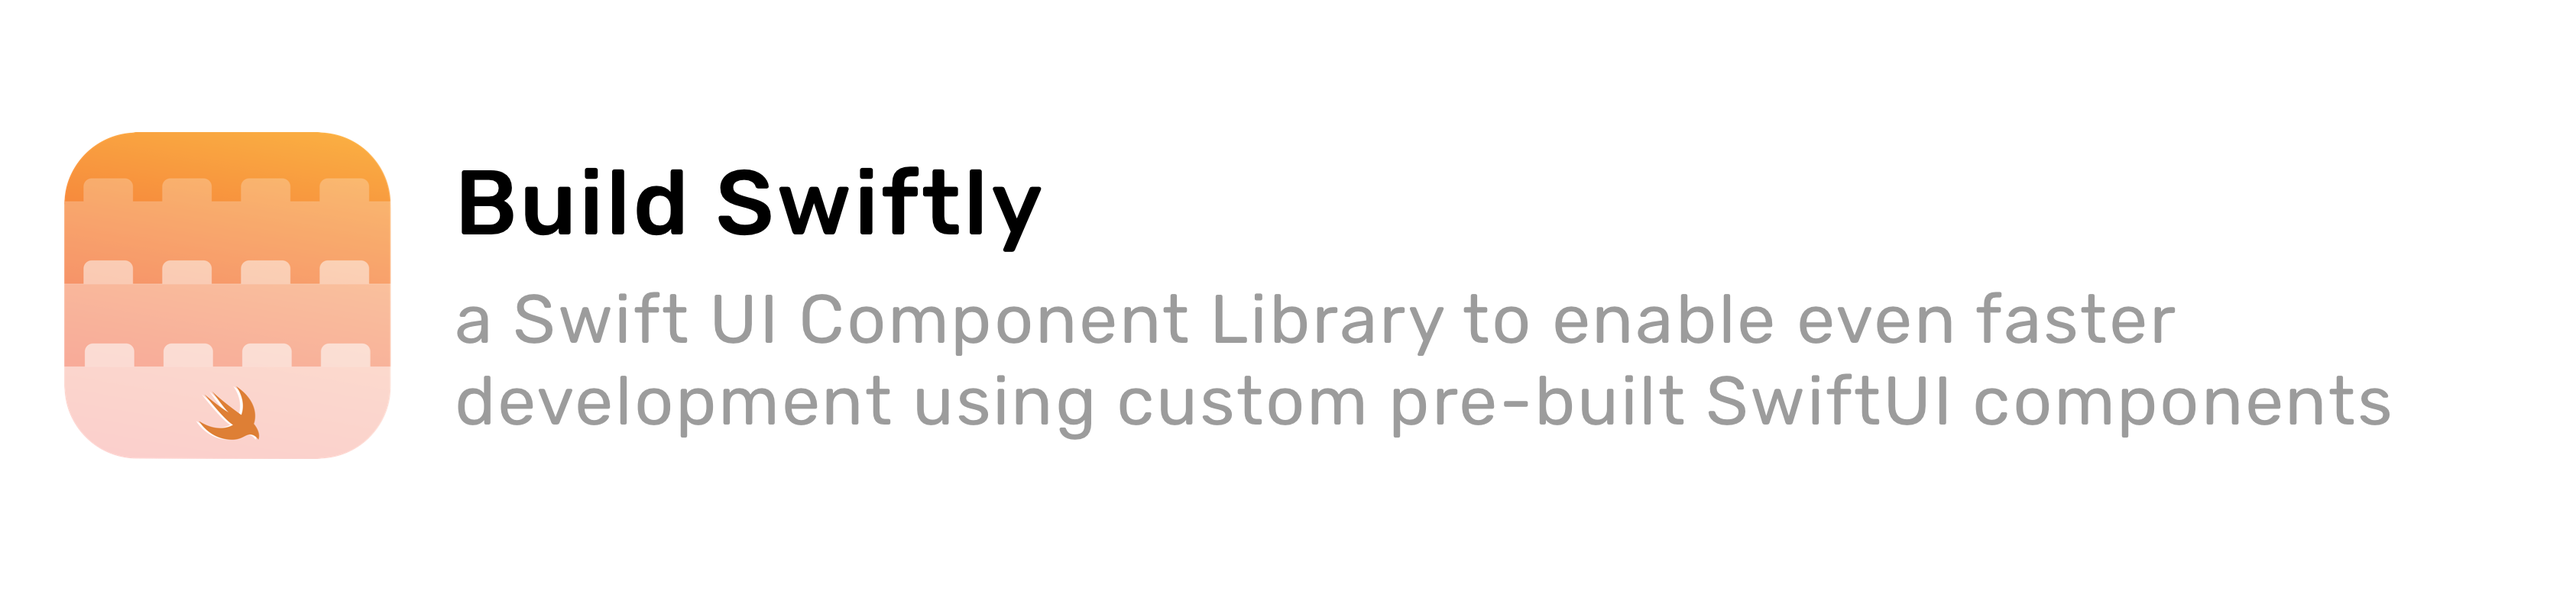
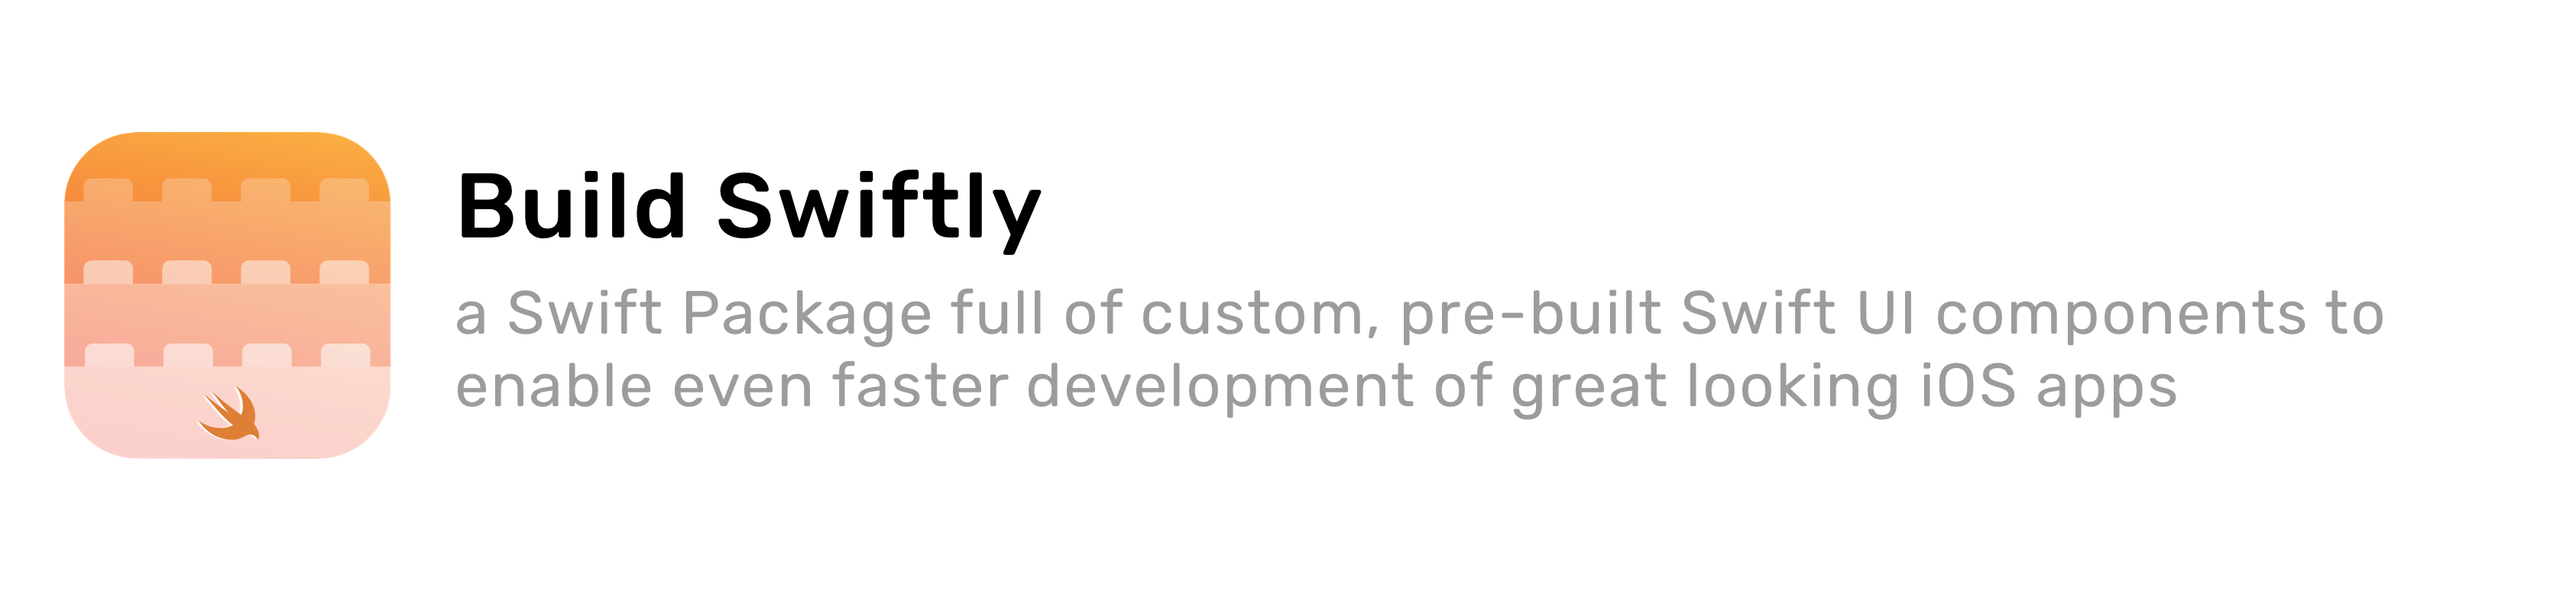
Updating README

diff --git a/README.md b/README.md
@@ -6,9 +6,7 @@
 ![License: MIT](https://img.shields.io/badge/License-MIT-yellow.svg)
 ![Build Status](https://github.com/danielfarrell-transact/BuildSwiftly/actions/workflows/nightly.yml/badge.svg)
 
-
-A SwiftUI Component Library to enable even faster development using custom pre-built SwiftUI components.
-Build Swiftly is available through Swift Package Manager
+Build Swiftly is a Swift Package full of custom, pre-built Swift UI components to enable even faster development of great looking iOS apps.
 
 ## Swift Package Manager 
 
